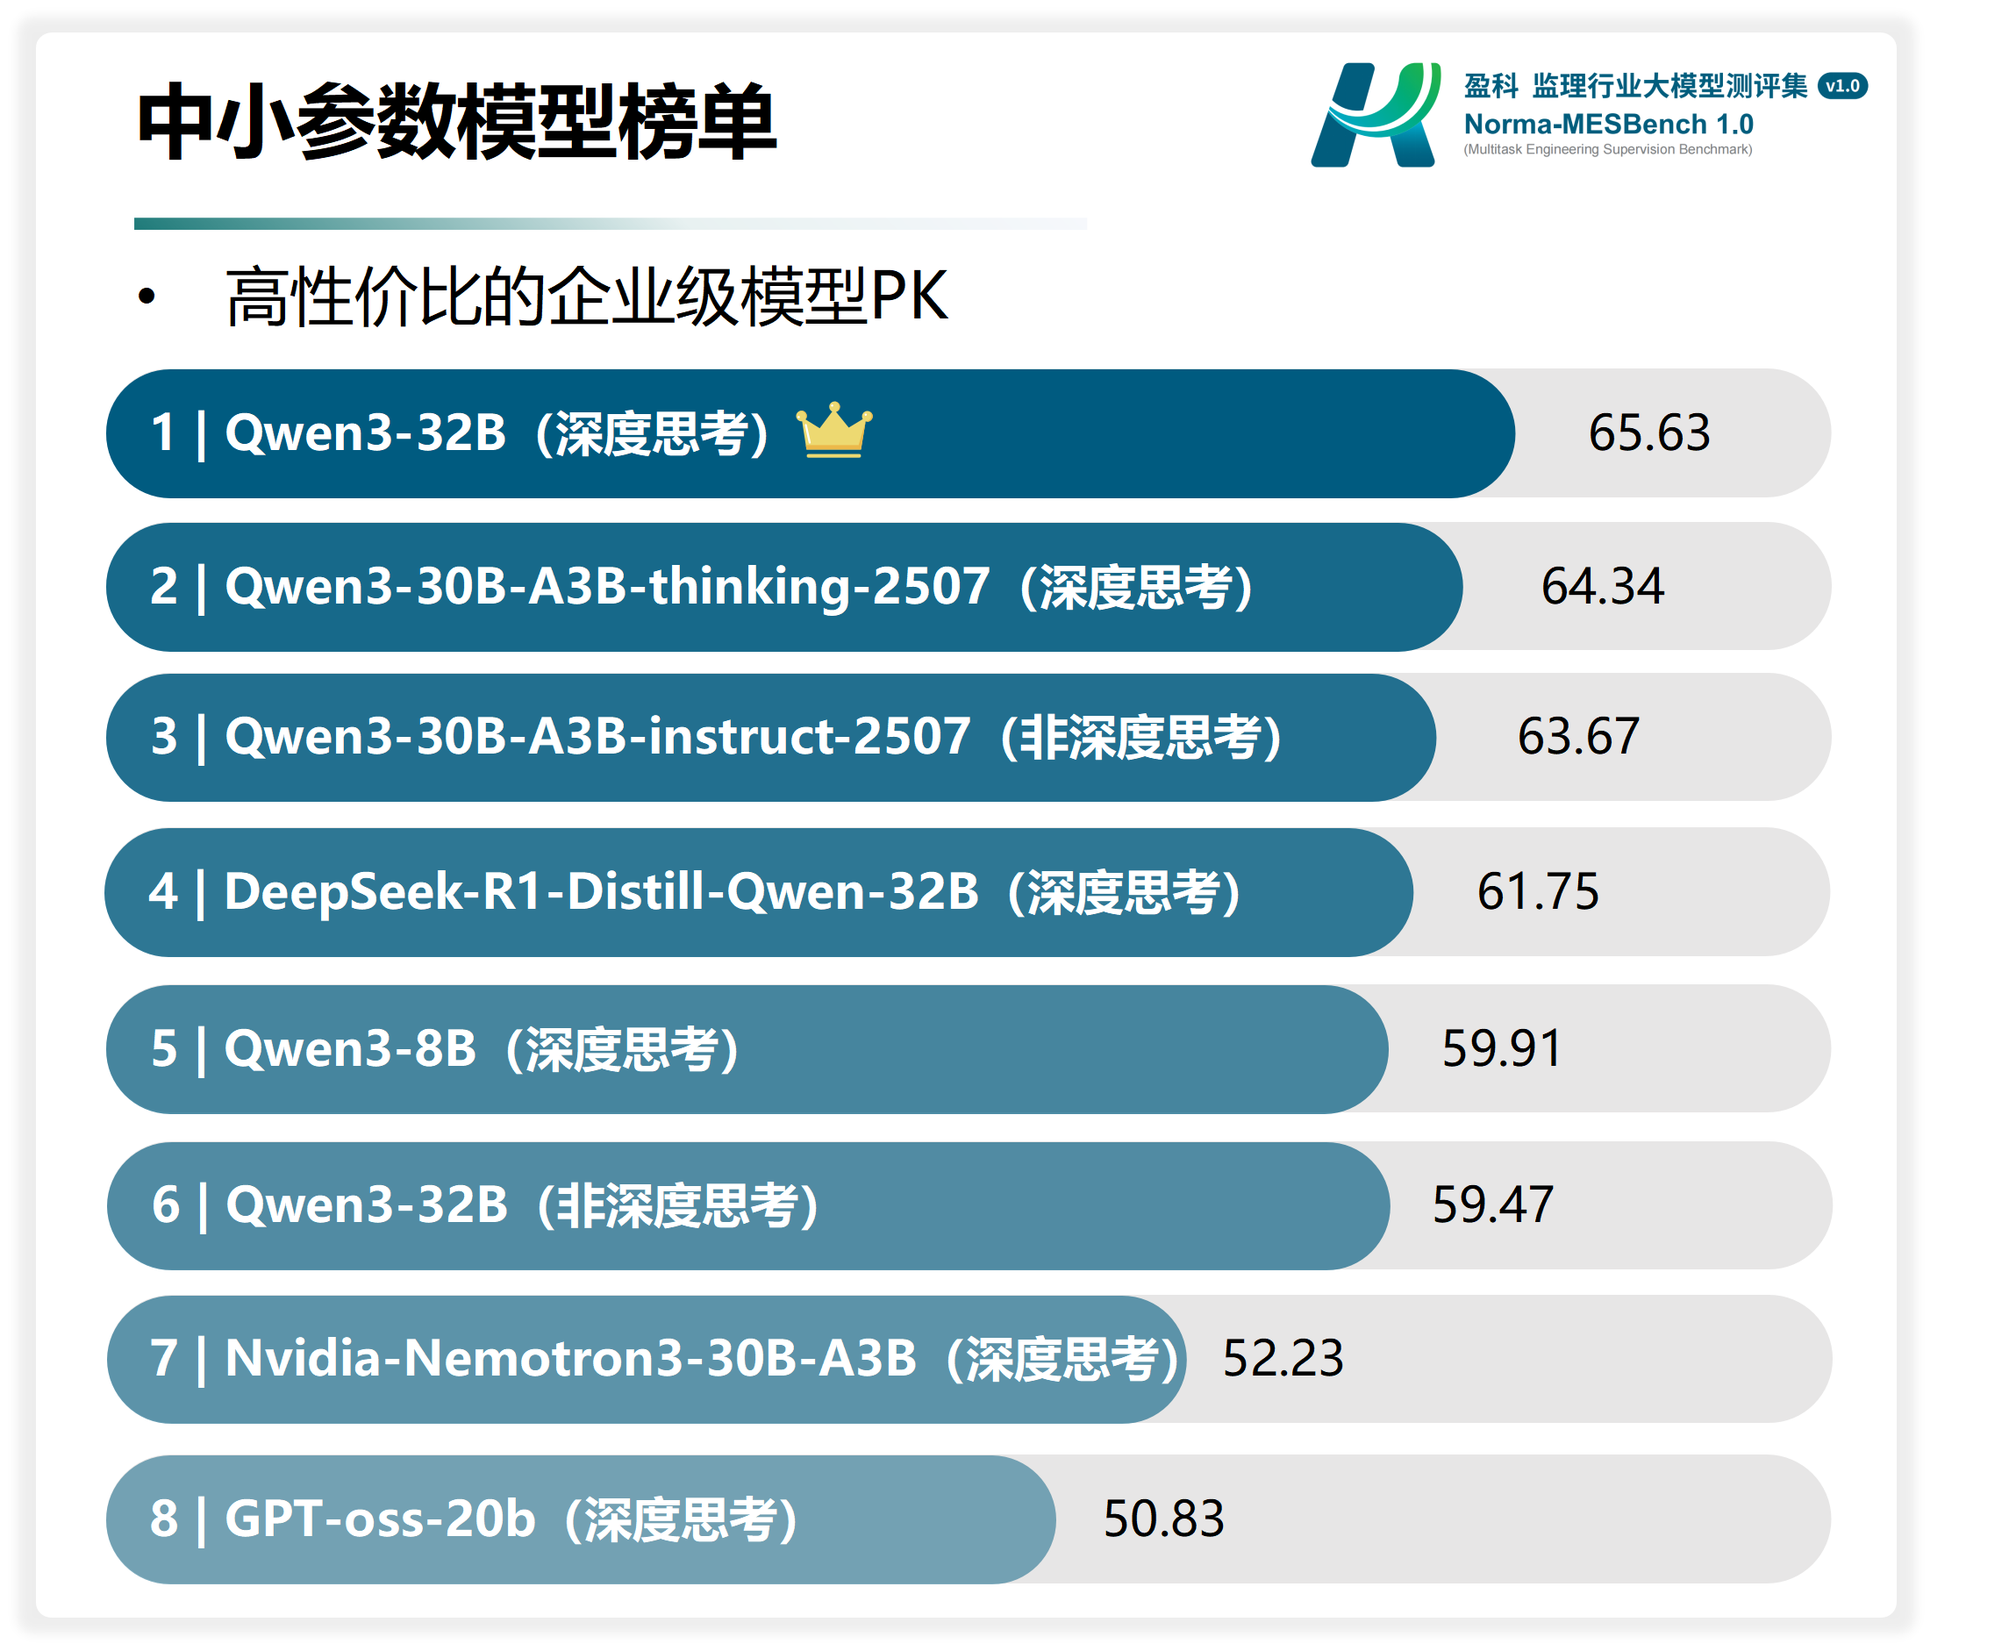
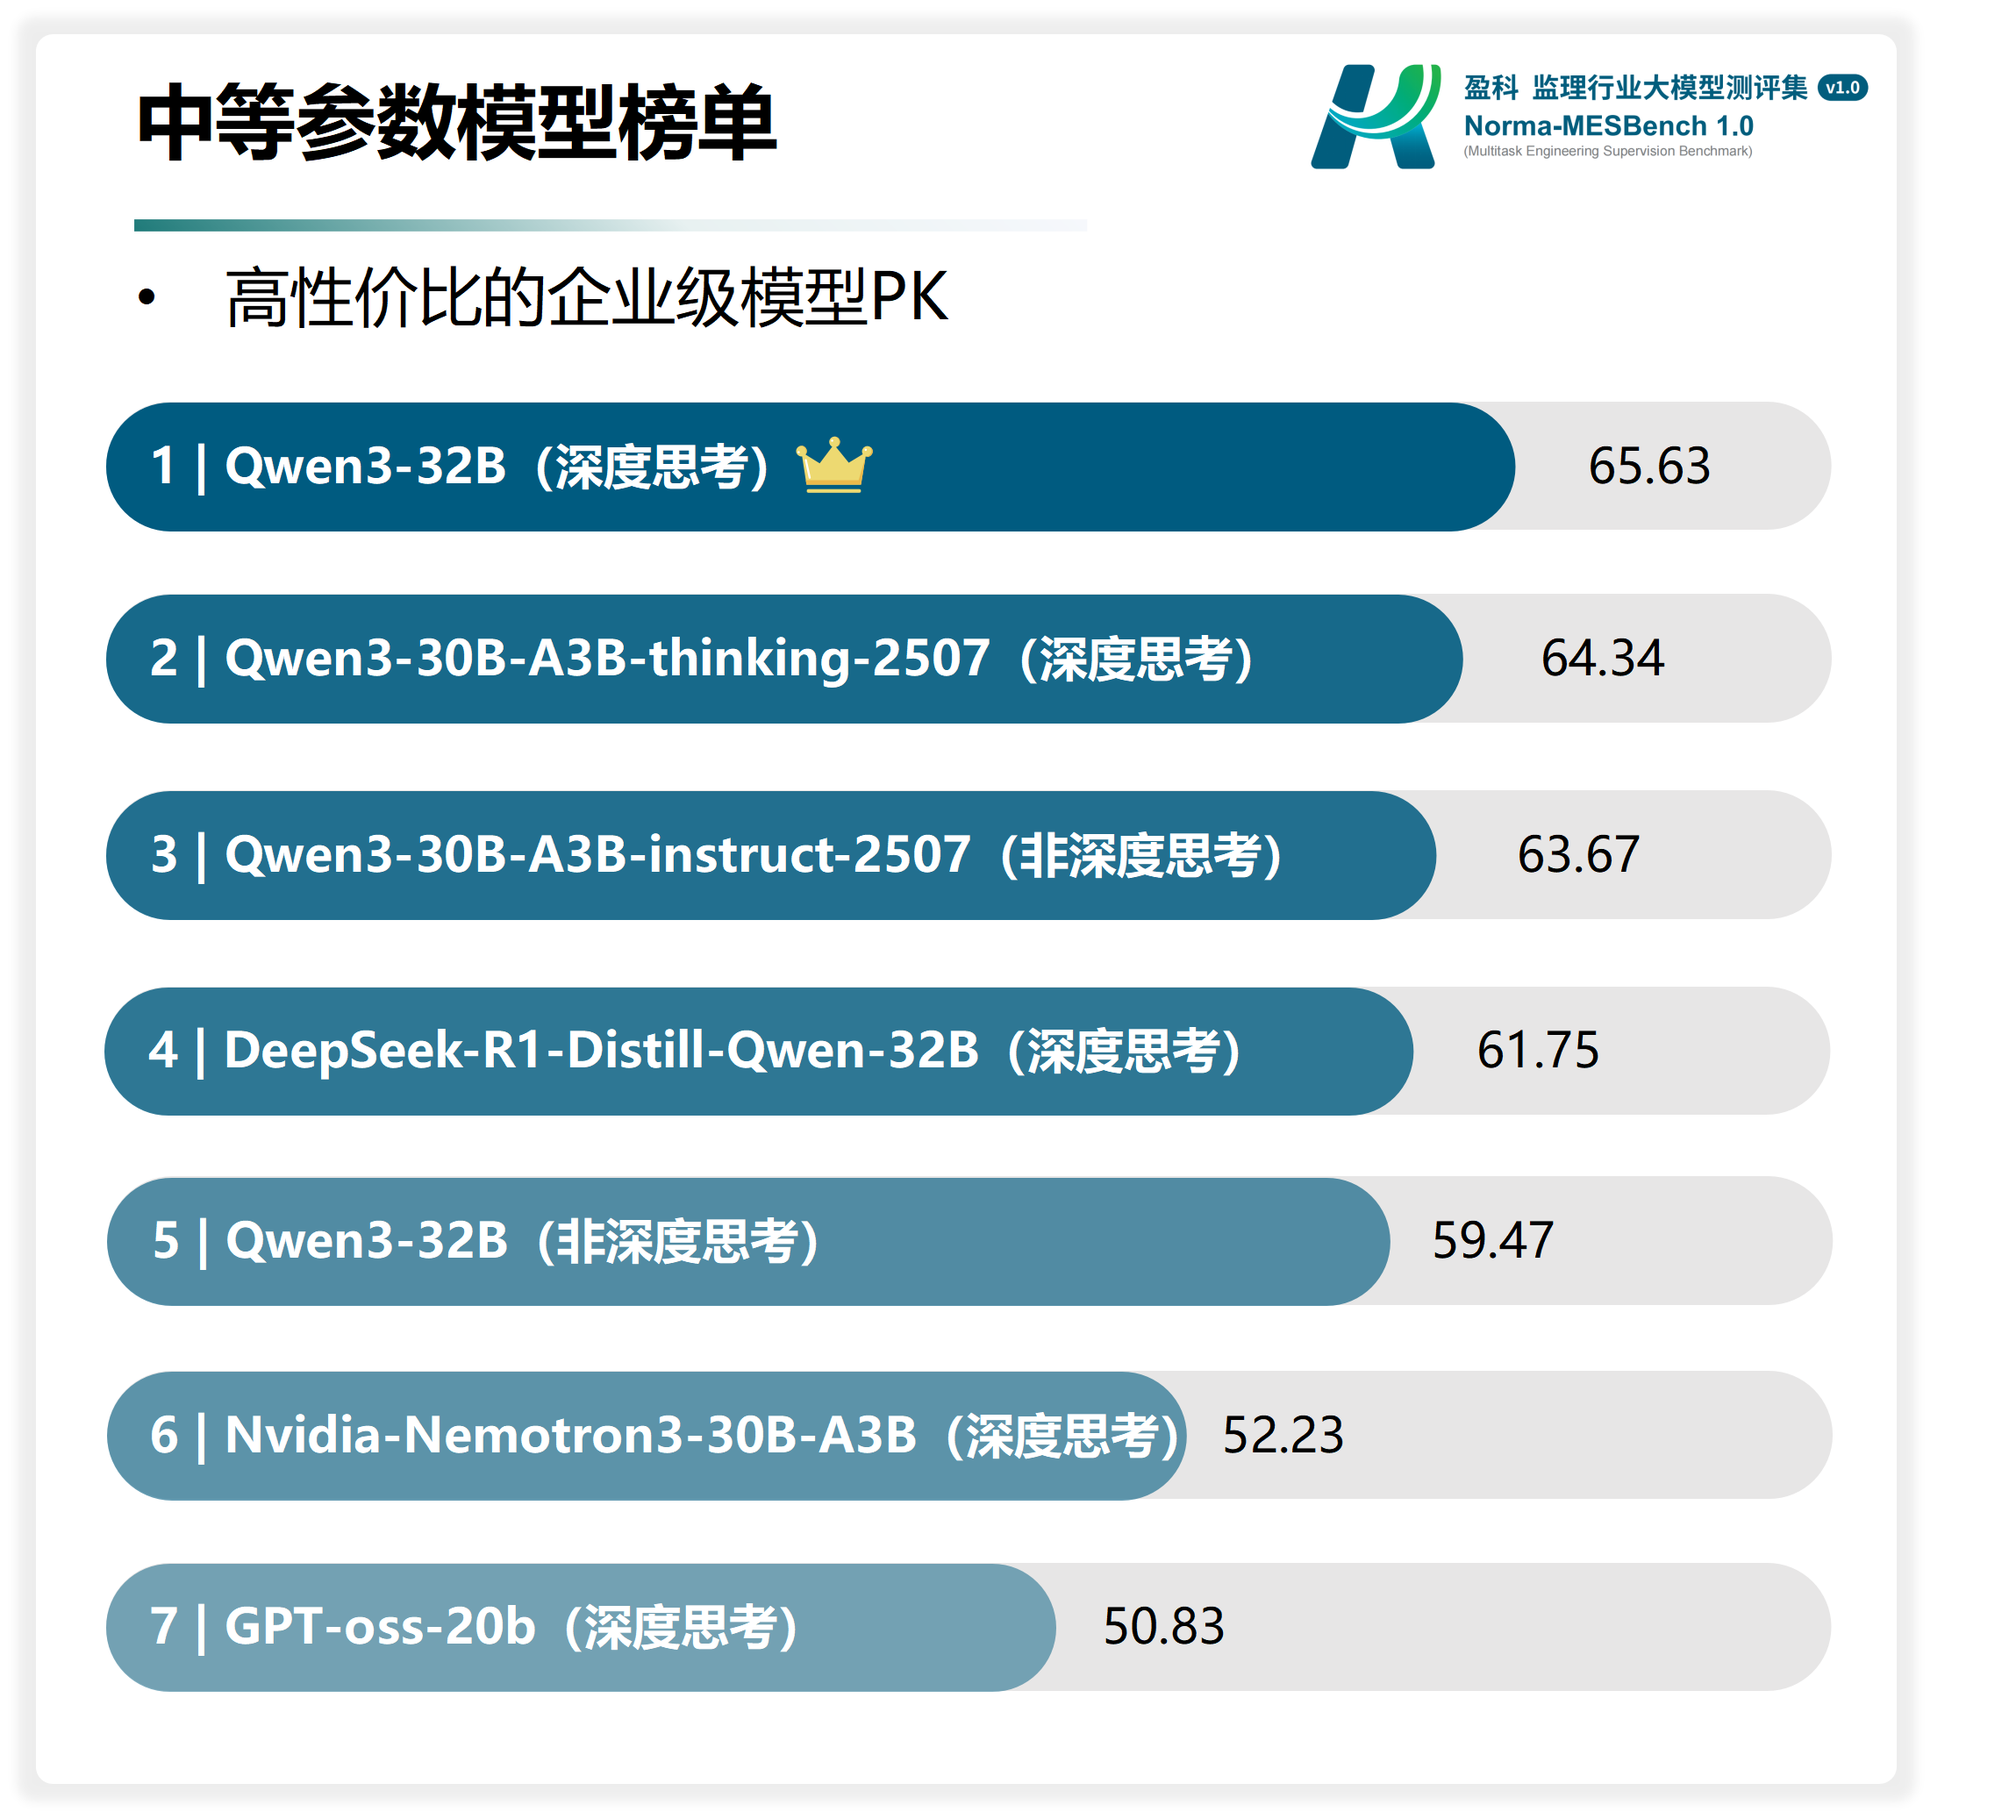
update readme

diff --git a/README.md b/README.md
@@ -97,10 +97,9 @@ Adopts Zero-shot and generative evaluation. No problem-solving templates are pro
 ## Model Evaluation Result Analysis
 
 ### 1. Mainstream LLM Selection
-18 mainstream LLMs were selected for evaluation (including models with/without deep thinking enabled), with parameters ranging from 8B to over 100B, covering both open-source and closed-source models.
+14 mainstream LLMs were selected for evaluation (including models with/without deep thinking enabled), with parameters ranging from 20B to over 100B, covering both open-source and closed-source models.
 | Model Name | Deep Thinking | Parameters | Open Source |
 | :--- | :--- | :--- | :--- |
-| qwen3-8b | Yes | 8B | Yes |
 | qwen3-30b-a3b-thinking-2507 | Yes | 30B (Total), 3B (Active) | Yes |
 | qwen3-30b-a3b-instruct-2507 | No | 30B (Total), 3B (Active) | Yes |
 | qwen3-32b | Yes | 32B | Yes |
@@ -132,9 +131,8 @@ Comparing models with over 100 billion parameters. Except for Qwen3-Max and doub
 </p>
 
 ### 3. Small and Medium Parameter Model Leaderboard
-Comparing open-source models with 8B-32B parameters, suitable for local deployment with limited resources.
+Comparing open-source models with 20B-32B parameters, suitable for local deployment with limited resources.
 - **Leapfrog Performance**: Qwen3-32B (Deep Thinking) scored 65.63, surpassing all small and medium parameter models and some large models, offering high cost-effectiveness.
-- **Entry-level Benchmark**: Qwen3-8B (Deep Thinking), with a score of 59.91, is rare for an edge-side model and suitable for low-precision or fine-tuning scenarios.
 - **Acclimatization Issues**: nvidia-nemotron-3-30b-a3b and gpt-oss-20b perform poorly in Chinese supervision.
 
 <p align="center">
@@ -144,18 +142,7 @@ Comparing open-source models with 8B-32B parameters, suitable for local deployme
   <img src="assets/small_model_results.png" alt="Small Parameter Model Evaluation Results" width="800" />
 </p>
 
-### 4. Large vs. Small Parameter Models
-Comparing the Qwen3 series (8B -> 32B -> 235B -> Max), scores increase with parameters.
-- **Scaling Law**: The slope from 8B to 32B is the steepest, indicating the highest ROI; 235B and above consume huge resources, suitable only for extreme precision.
-
-<p align="center">
-  <img src="assets/qwen3_series_performance.png" alt="Qwen3 Series Performance Trend" width="800" />
-</p>
-<p align="center">
-  <img src="assets/same_series_large_vs_small.png" alt="Comparison of Large and Small Parameters in the Same Series" width="800" />
-</p>
-
-### 5. Thinking vs. Non-Thinking Mode
+### 4. Thinking vs. Non-Thinking Mode
 Scores of all models increase significantly after enabling "Deep Thinking (CoT)".
 - **Significant Improvement**: DeepSeek-v3.2 improved most (+7.5 points), proving CoT is essential in supervision.
 - **Cost of "Slow Thinking"**: CoT slows down response speed, requiring trade-offs based on scenarios.
@@ -167,7 +154,7 @@ Scores of all models increase significantly after enabling "Deep Thinking (CoT)"
   <img src="assets/thinking_vs_non_thinking.png" alt="Thinking vs Non-Thinking Comparison" width="800" />
 </p>
 
-### 6. Score Comparison in Different Sub-fields (Taking Kimi-k2 as Example)
+### 5. Score Comparison in Different Sub-fields (Taking Kimi-k2 as Example)
 - **Professional Technology**: "Quality" (~71.5) is better than "Safety" (~67.1).
 - **General Comprehensive**: Avg ~79.4, the strongest sector, benefiting from text understanding capabilities and potential public training data.
 
@@ -175,7 +162,7 @@ Scores of all models increase significantly after enabling "Deep Thinking (CoT)"
   <img src="assets/kimi_k2_detailed_analysis.png" alt="Detailed Analysis of Kimi-K2 Scores in All Dimensions" width="800" />
 </p>
 
-### 7. Domestic vs. Foreign Models
+### 6. Domestic vs. Foreign Models
 Comparing Qwen3-32B with foreign models of similar size (Nemotron-30B, GPT-OSS-20B).
 - **Complete Domination**: Qwen3-32B wins in all dimensions.
 - **Professional Barrier**: Foreign models fail in "Professional Technology", proving the barriers of foreign models in this vertical domain.
@@ -232,7 +219,7 @@ The configuration file (e.g., `config/test.yaml`) includes:
 3. **Model Inference**: Concurrently call the candidate model to generate answers.
 4. **Scoring**:
    - Objective questions (Single/Multi-choice, True/False): Automatically scored against standard answers.
-   - Subjective questions (QA): Scored by judge models (e.g., GPT-4).
+   - Subjective questions (QA): Scored by judge models.
 5. **Report Generation**: Output `scores.csv` (detailed scores) and `report.md` (analysis report).
 
 ## Notes
